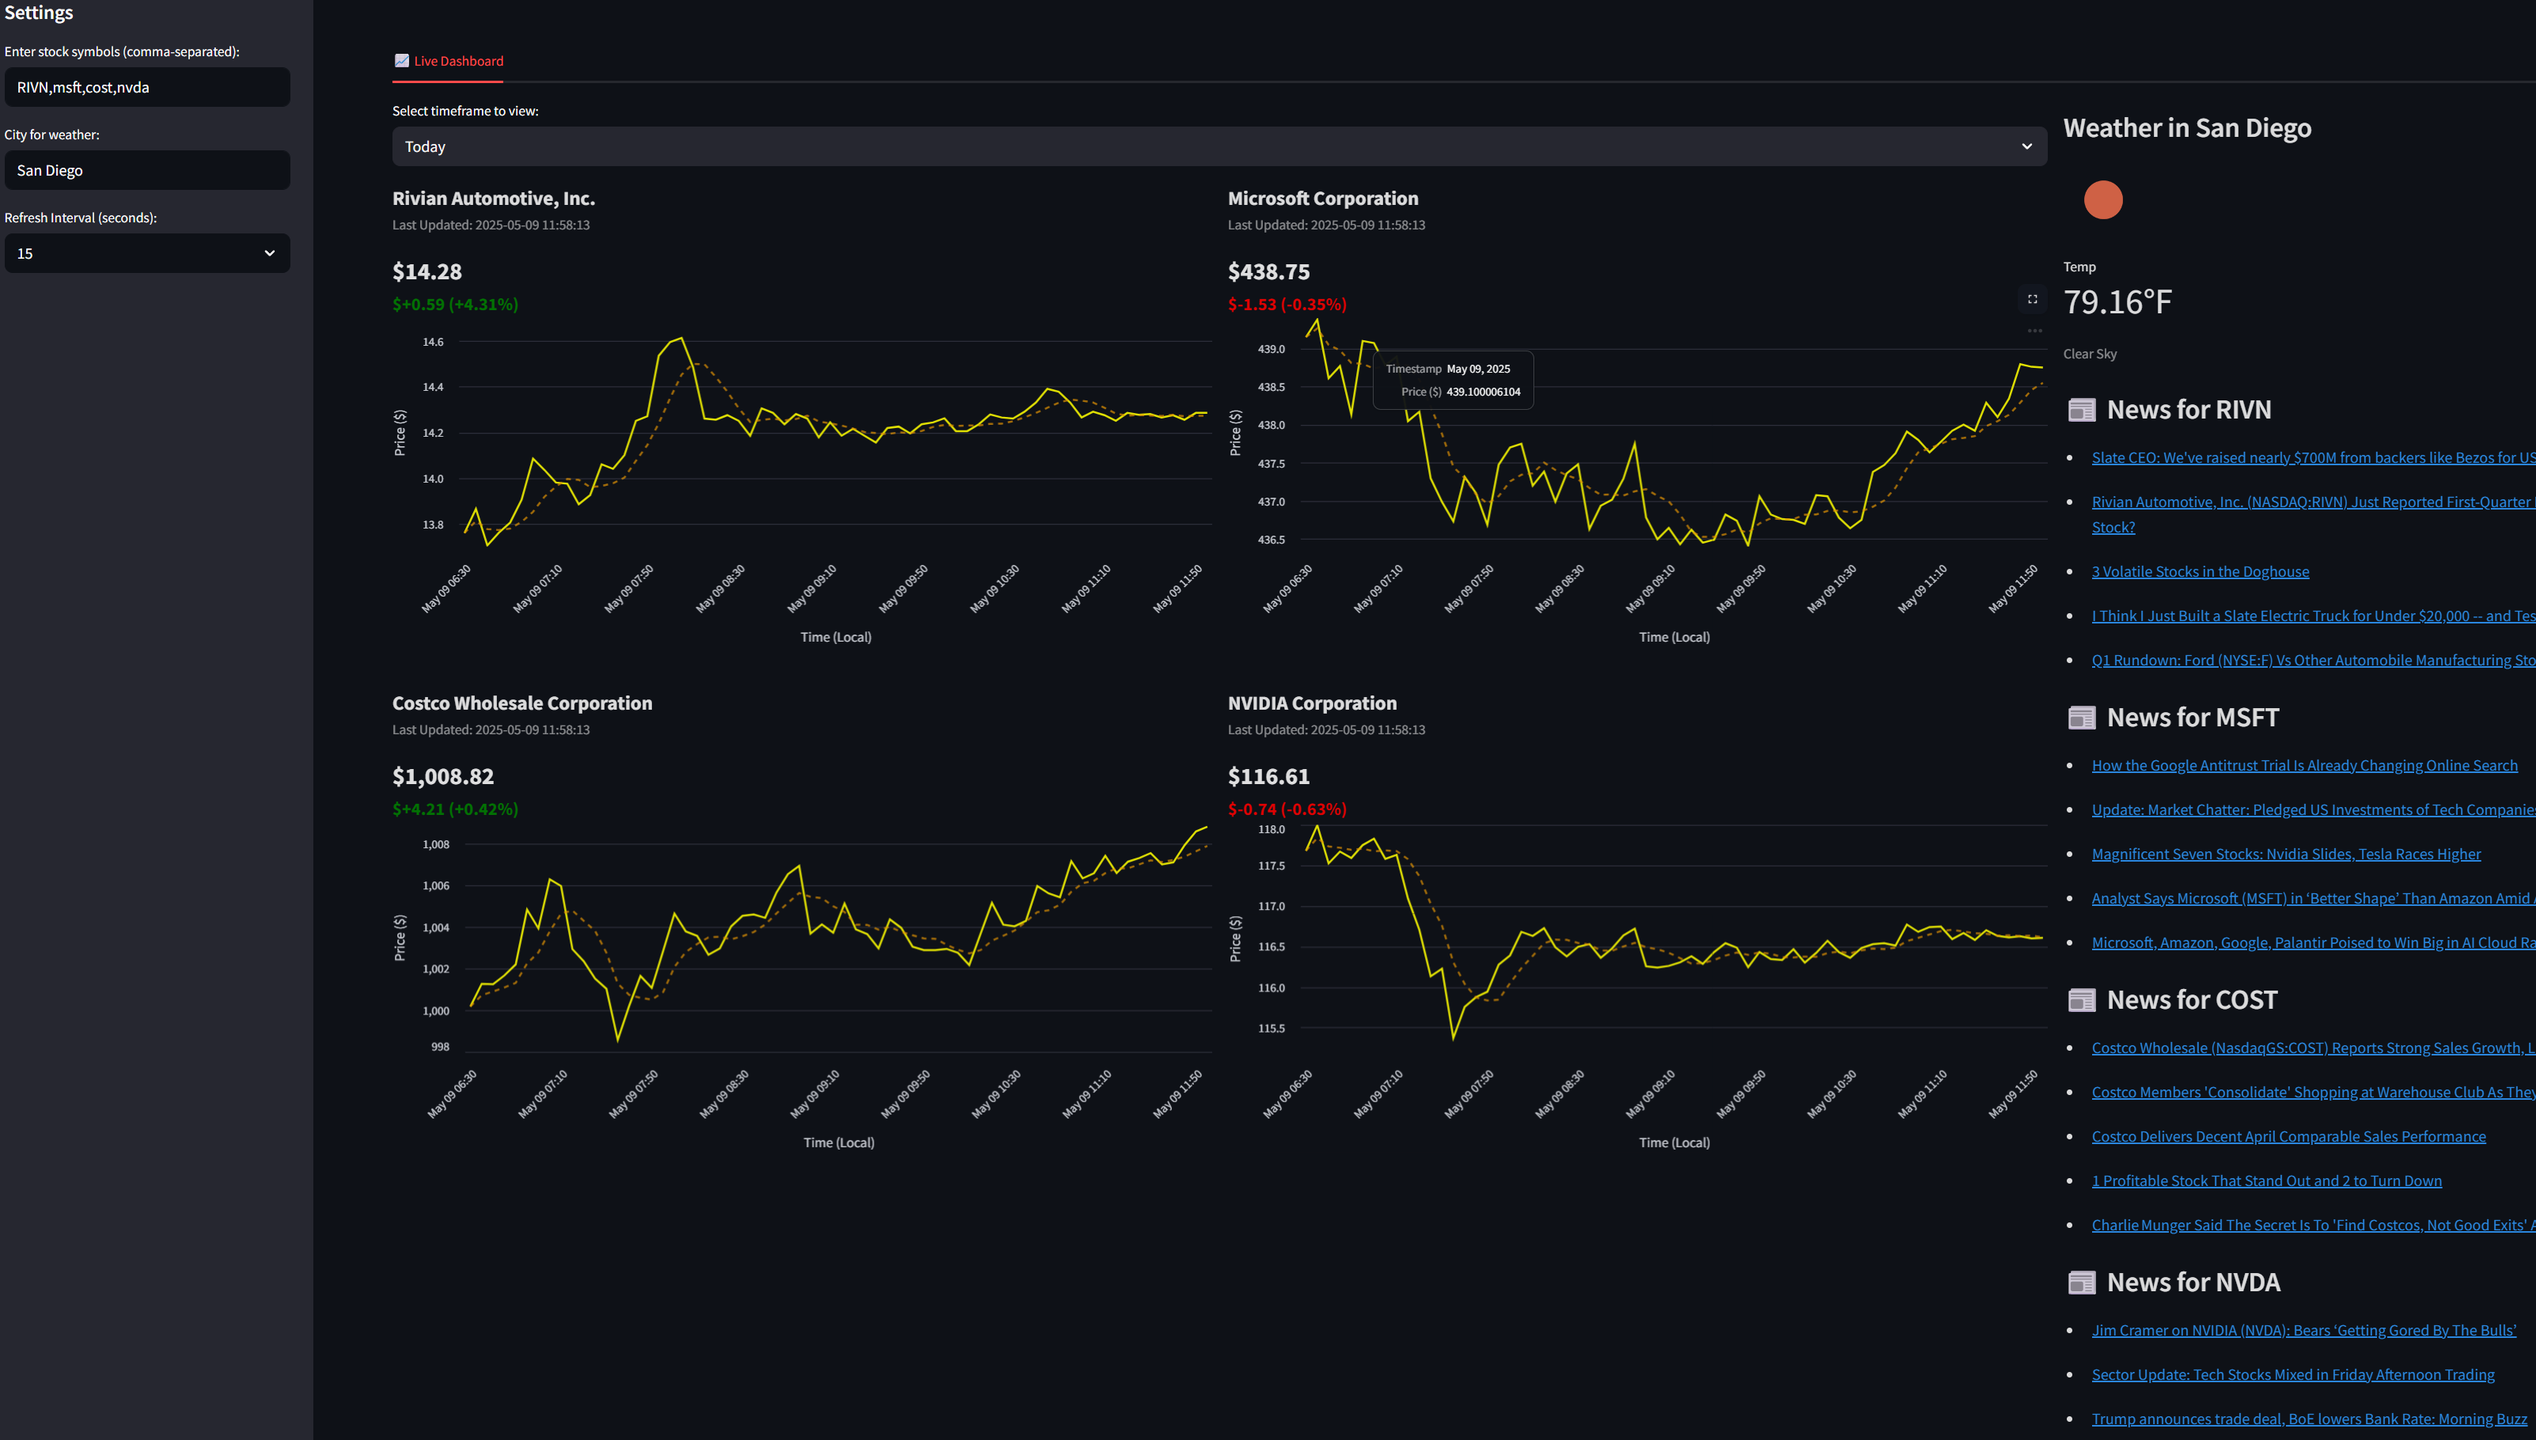
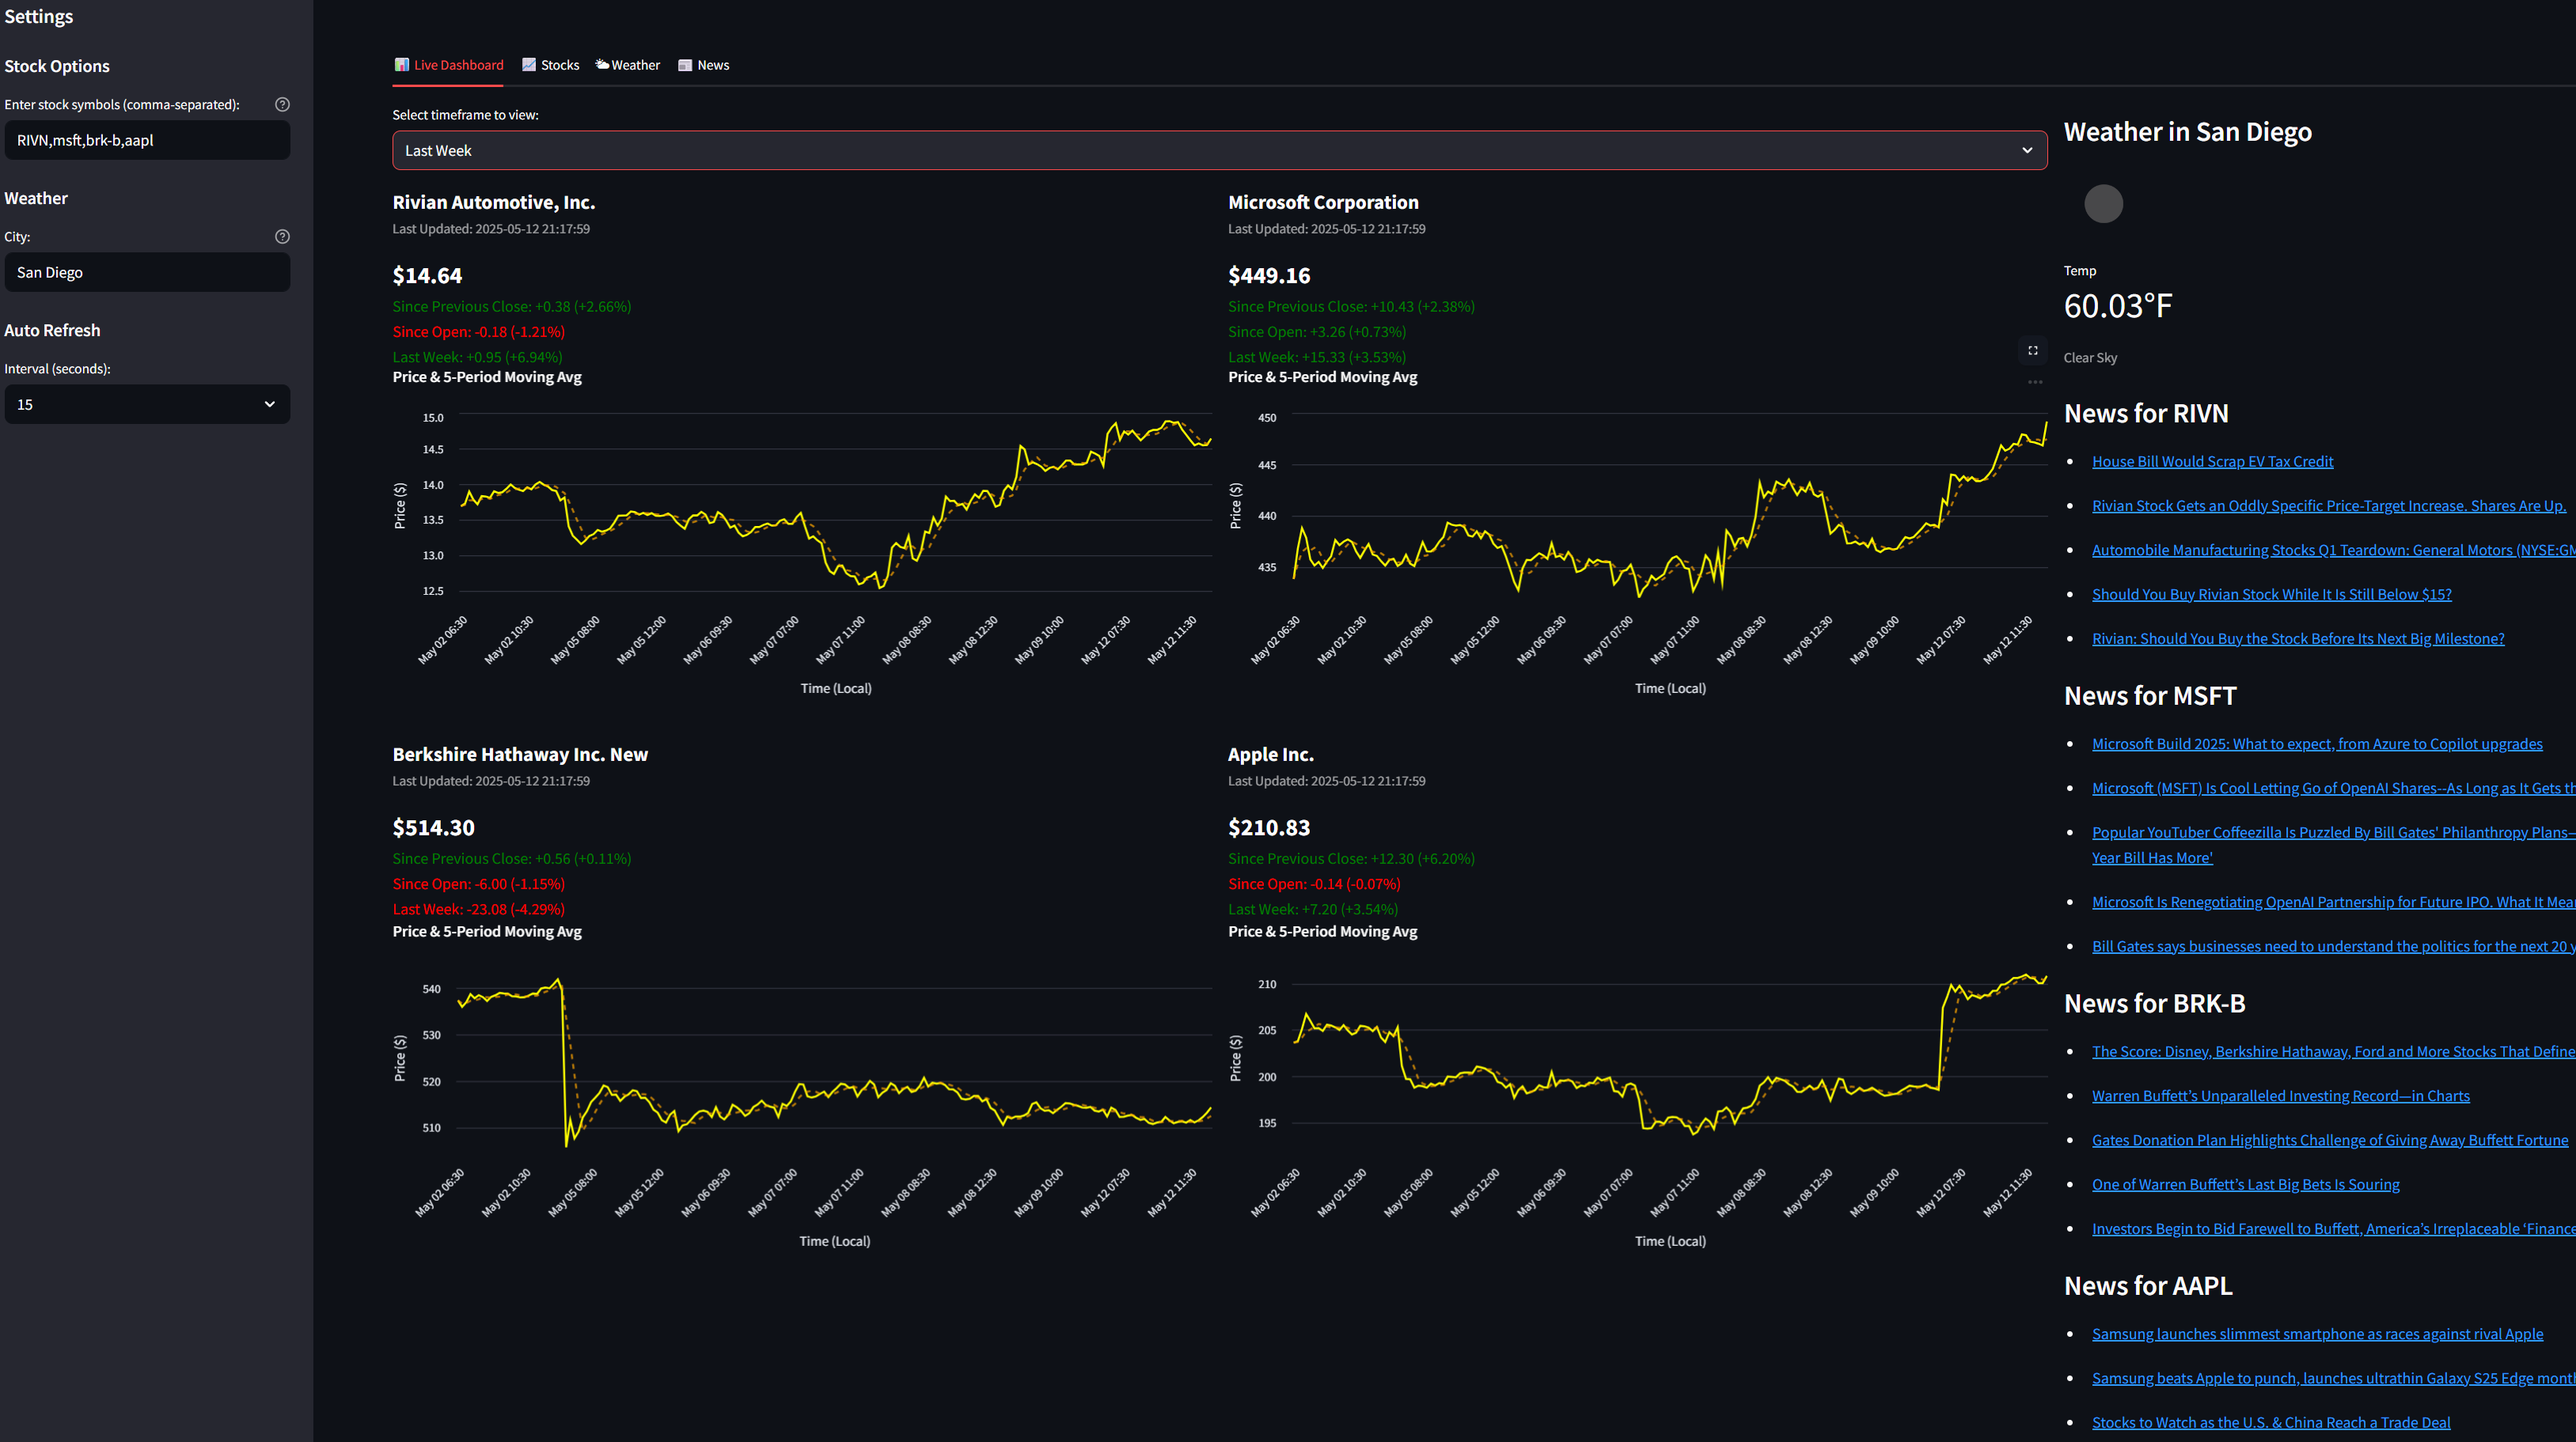
Enhance experience section with dynamic cards and improved styling; update experience data structure for better keyword highlighting

diff --git a/js/experience.js b/js/experience.js
@@ -1,6 +1,6 @@
 export const experiences = [
-    {
-      title: "Data & Full-Stack Developer",
+  {
+    title: "Data & Full-Stack Developer",
     company: "Freelance",
     period: "2023-Present",
     description: [
@@ -37,22 +37,56 @@ export const experiences = [
       "Briefly held a Supervisor role, overseeing front-end operations and managing cashiers and assistants.",
     ],
   },
-    // ... other experiences ...
-  ];
-  
-  export function generateExperience() {
-    const experienceTimeline = document.querySelector('.experience-timeline');
-    experiences.forEach(experience => {
-      const experienceCard = `
-        <div class="experience-card">
-          <h3 class="experience-title">${experience.title}</h3>
-          <h4 class="experience-company">${experience.company}</h4>
-          <p class="experience-period">${experience.period}</p>
+];
+
+export function generateExperience() {
+  const experienceTimeline = document.querySelector('.experience-timeline');
+
+  experiences.forEach((experience, index) => {
+    const descriptionItems = experience.description.map(desc => {
+      const keywords = [
+        'Python', 'SQL', 'Tableau', 'Power BI', 'Flask', 'Google Cloud', 
+        'RAG', 'FastAPI', 'ReportLab', 'Machine Learning', 'pandas'
+      ];
+      let highlighted = desc;
+      keywords.forEach(word => {
+        const regex = new RegExp(`\\b(${word})\\b`, 'g');
+        highlighted = highlighted.replace(regex, `<span class="project-tag">$1</span>`);
+      });
+      return `<li>${highlighted}</li>`;
+    }).join('');
+
+    const experienceCard = `
+      <div class="experience-card" id="card-${index}">
+        <button class="experience-toggle" data-target="exp-${index}">
+          <div class="experience-header">
+            <div>
+              <h3 class="experience-title">${experience.title}</h3>
+              <h4 class="experience-company">${experience.company}</h4>
+              <p class="experience-period">${experience.period}</p>
+            </div>
+            <div class="experience-toggle-icon"><i class="fas fa-chevron-down"></i></div>
+          </div>
+        </button>
+        <div class="experience-details" id="exp-${index}" style="display: none;">
           <ul class="experience-description">
-            ${experience.description.map(desc => `<li>${desc}</li>`).join('')}
+            ${descriptionItems}
           </ul>
         </div>
-      `;
-      experienceTimeline.innerHTML += experienceCard;
+      </div>
+    `;
+    experienceTimeline.innerHTML += experienceCard;
+  });
+
+  document.querySelectorAll('.experience-toggle').forEach(button => {
+    button.addEventListener('click', () => {
+      const target = document.getElementById(button.dataset.target);
+      const card = button.closest('.experience-card');
+      const isOpen = target.style.display === 'block';
+
+      target.style.display = isOpen ? 'none' : 'block';
+      button.classList.toggle('open', !isOpen);
+      card.classList.toggle('open', !isOpen);
     });
-  }
+  });
+}

diff --git a/css/styles.css b/css/styles.css
@@ -36,6 +36,14 @@
   --link-hover-color: #bda2fe;
 }
 
+[data-theme="dark"] .experience-title {
+  color: #ffffff; /* Full white for job titles in dark mode */
+}
+
+[data-theme="dark"] .experience-company {
+  color: var(--secondary-text-color); /* Subtle gray for company names */
+}
+
 /* Base Styles */
 * {
   margin: 0;
@@ -74,7 +82,7 @@ a:hover {
 
 /* Utility Classes */
 .section {
-  padding: 5rem 0;
+  padding: 0rem 0;
   scroll-margin-top: 100px;
 }
 
@@ -399,11 +407,24 @@ a:hover {
 }
 
 .project-tag {
-  background-color: var(--background-color);
-  color: var(--text-color);
+  background-color: var(--primary-color); /* Matches your Experience badge */
+  color: white;
   padding: 0.25rem 0.75rem;
   border-radius: 2rem;
   font-size: 0.875rem;
+  font-weight: 500;
+  display: inline-block;
+  white-space: nowrap;
+  margin: 0 4px; /* Optional: Adds spacing between tags */
+  animation: fadeIn 0.5s ease-in-out;
+}
+
+.project-tag.python {
+  background-color: #3776ab; /* Python blue */
+}
+
+.project-tag.tableau {
+  background-color: #e97627; /* Tableau orange */
 }
 
 /* Skills Grid */
@@ -475,17 +496,63 @@ a:hover {
   border-radius: 1rem;
   position: relative;
   box-shadow: var(--box-shadow);
+  margin-bottom: 2.5rem; /* Added this line for spacing */
 }
 
-.experience-card::before {
-  content: '';
-  position: absolute;
-  left: -10px;
-  top: 2rem;
-  width: 20px;
-  height: 20px;
-  background-color: var(--primary-color);
-  border-radius: 50%;
+.experience-toggle {
+  background: none;
+  border: none;
+  width: 100%;
+  text-align: left;
+  padding: 0;
+  cursor: pointer;
+}
+
+.experience-header {
+  display: flex;
+  justify-content: space-between;
+  align-items: center;
+  background: var(--card-background);
+  padding: 1rem;
+  border-radius: 0.5rem;
+  box-shadow: var(--box-shadow);
+  transition: background-color 0.3s ease;
+}
+
+.experience-header:hover {
+  background-color: rgba(198, 40, 40, 0.05);
+}
+
+.experience-title {
+  font-weight: 600;
+  font-size: 1.25rem;
+  margin-bottom: 0.25rem;
+}
+
+.experience-company {
+  font-weight: 500;
+  font-size: 1rem;
+  color: var(--secondary-text-color);
+  margin: 0;
+}
+
+.experience-period {
+  font-size: 0.9rem;
+  color: var(--secondary-text-color);
+}
+
+.experience-toggle-icon {
+  transition: transform 0.3s ease;
+  font-size: 1.25rem;
+  color: var(--primary-color);
+}
+
+.experience-toggle.open .experience-toggle-icon {
+  transform: rotate(180deg);
+}
+
+.experience-card.open {
+  background-color: rgba(198, 40, 40, 0.04);
 }
 
 /* Education Cards */
@@ -630,6 +697,17 @@ a:hover {
 
 .section {
   animation: fadeIn 0.6s ease-out;
+}
+
+@keyframes fadeIn {
+  from {
+    opacity: 0;
+    transform: translateY(10px);
+  }
+  to {
+    opacity: 1;
+    transform: translateY(0);
+  }
 }
 
 /* Centered Image */

diff --git a/index.html b/index.html
@@ -118,6 +118,19 @@
         </div>
       </div>
     </section>
+    <!-- Experience Section -->
+    <section id="experience" class="section section-alt">
+      <div class="container">
+        <div class="section-header">
+          <span class="badge">My Journey</span>
+          <h2 class="section-title">Professional Experience</h2>
+          <div class="section-divider"></div>
+        </div>
+        <div class="experience-timeline">
+          <!-- Experience cards will be dynamically generated by JavaScript -->
+        </div>
+      </div>
+    </section>
     <!-- Projects Section -->
     <section id="projects" class="section section-alt">
       <div class="container">
@@ -141,19 +154,6 @@
         </div>
         <div class="skills-grid">
           <!-- Skill cards will be dynamically generated by JavaScript -->
-        </div>
-      </div>
-    </section>
-    <!-- Experience Section -->
-    <section id="experience" class="section section-alt">
-      <div class="container">
-        <div class="section-header">
-          <span class="badge">My Journey</span>
-          <h2 class="section-title">Professional Experience</h2>
-          <div class="section-divider"></div>
-        </div>
-        <div class="experience-timeline">
-          <!-- Experience cards will be dynamically generated by JavaScript -->
         </div>
       </div>
     </section>
